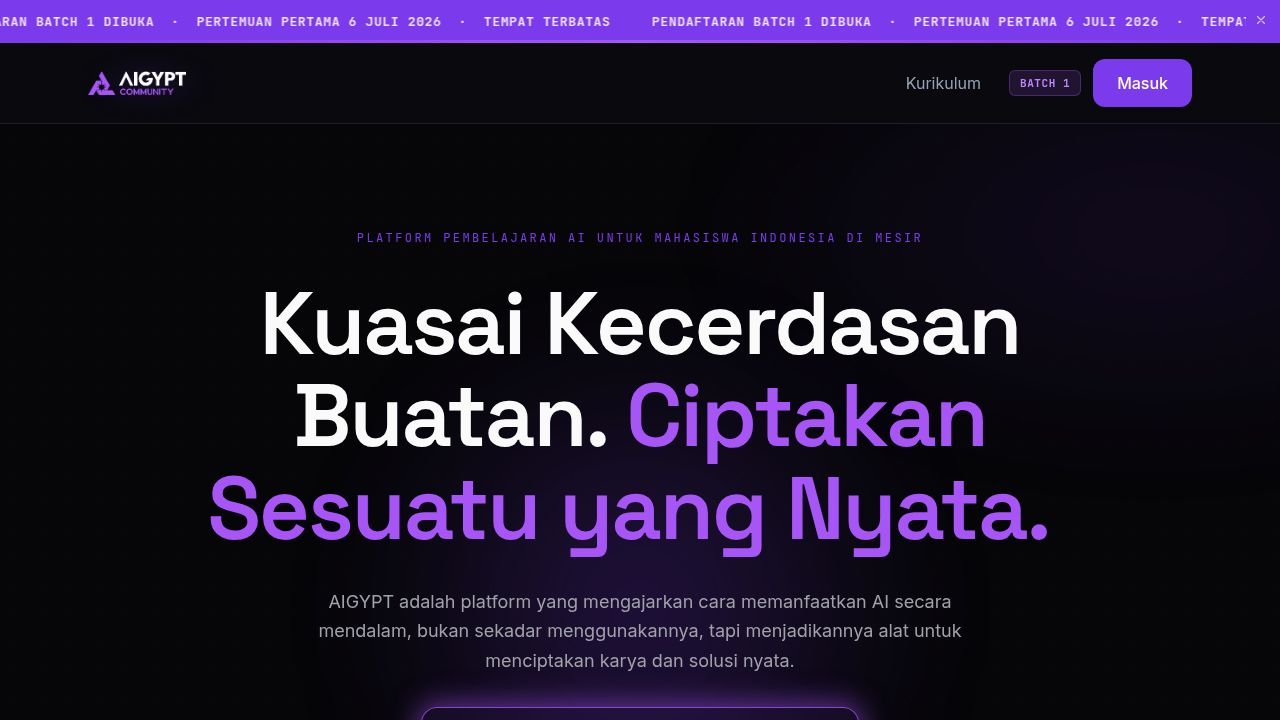
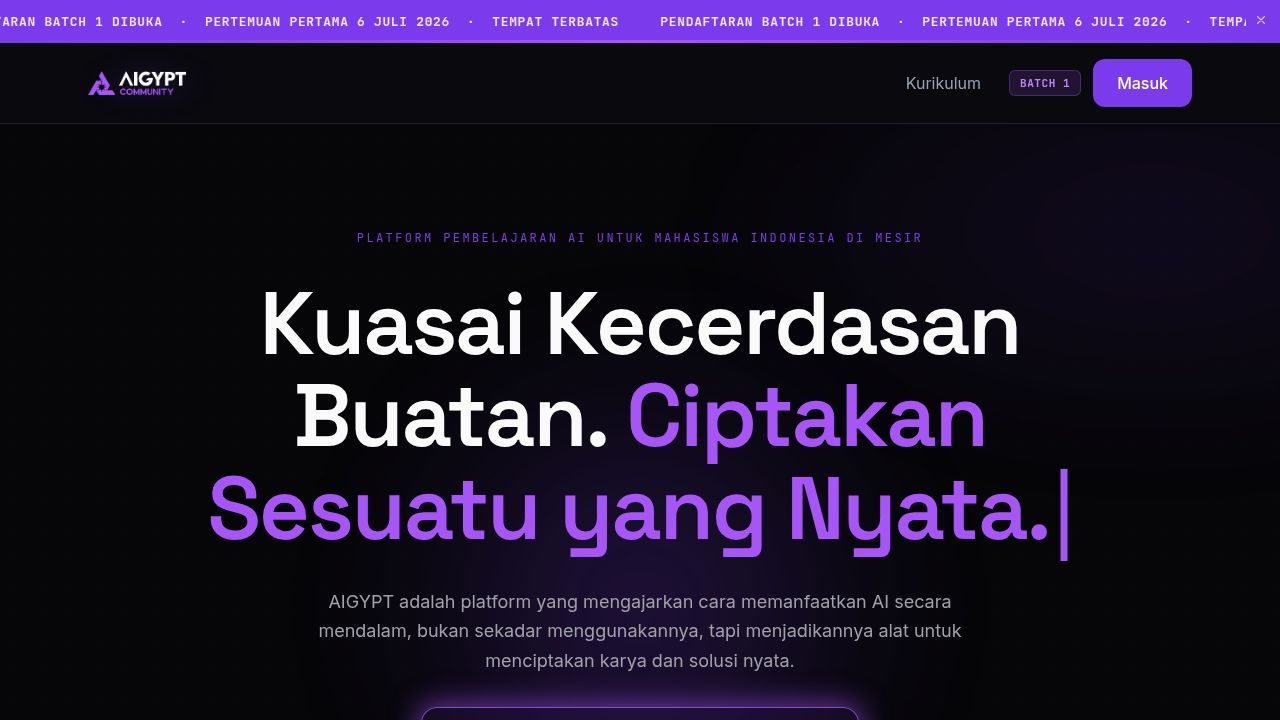
Update course content and descriptions for upcoming classes
Refactors `classesData.ts` to update titles, taglines, descriptions, and learning outcomes for four "coming soon" courses.

Replit-Commit-Author: Agent
Replit-Commit-Session-Id: 8038c7c8-4fa3-41d1-ba95-f854f5575b59
Replit-Commit-Checkpoint-Type: full_checkpoint
Replit-Commit-Event-Id: be11563e-5cd3-4d43-adb0-04438cbd7229
Replit-Commit-Screenshot-Url: https://storage.googleapis.com/screenshot-production-us-central1/8df82b44-aafc-41c3-98d5-f4d5fb4b5561/8038c7c8-4fa3-41d1-ba95-f854f5575b59/9lhY41s
Replit-Helium-Checkpoint-Created: true

diff --git a/artifacts/aigypt/src/lib/classesData.ts b/artifacts/aigypt/src/lib/classesData.ts
@@ -46,12 +46,12 @@ export const kelasList: KelasItem[] = [
   },
   {
     id: "arabic-mastery-ai",
-    title: "Bahasa Arab Akademik dengan AI",
-    tagline: "Taklukkan makalah dan kitab klasik.",
+    title: "Bahasa Arab & Turats dengan AI",
+    tagline: "Taklukkan kitab turats dan bahasa Arab akademik dengan kecerdasan buatan sebagai asisten belajarmu.",
     description:
-      "Kelas mendalam khusus akademik: menulis makalah Arab tingkat tinggi, memahami kitab klasik, dan riset ilmiah, semua dengan bantuan AI yang memahami bahasa Arab.",
+      "Inilah kelas yang paling dekat dengan keseharianmu sebagai mahasiswa Al-Azhar. Bukan tentang menggantikan talaqqi atau guru, tapi tentang punya asisten yang membantumu memahami matan yang rumit, membaca kitab gundul, dan menyusun tulisan akademik berbahasa Arab fusha dengan lebih percaya diri.",
     sesiCount: 5,
-    duration: "60 menit/sesi",
+    duration: "75 menit/sesi",
     level: "Menengah",
     status: "coming-soon",
     gradient:
@@ -61,18 +61,19 @@ export const kelasList: KelasItem[] = [
       "M12 6.042A8.967 8.967 0 006 3.75c-1.052 0-2.062.18-3 .512v14.25A8.987 8.987 0 016 18c2.305 0 4.408.867 6 2.292m0-14.25a8.966 8.966 0 016-2.292c1.052 0 2.062.18 3 .512v14.25A8.987 8.987 0 0018 18a8.967 8.967 0 00-6 2.292m0-14.25v14.25",
     personas: ["Akademisi"],
     whatYouLearn: [
-      "Menulis makalah Arab fusha tingkat akademik",
-      "Menerjemah dan menganalisis kitab klasik",
-      "Riset dan menemukan celah penelitian",
-      "Mempersiapkan ujian dan munaqasyah",
+      "Menerjemah kitab turats secara kontekstual, bukan sekadar kata per kata",
+      "Menganalisis struktur nahwu dan shorof dari teks Arab yang sulit",
+      "Memanfaatkan AI bersama Maktabah Shamela dan sumber turats digital lainnya",
+      "Menyusun makalah dan penelitian berbahasa Arab fusha yang rapi dan akademis",
+      "Memahami batasan: kapan mempercayai AI dan kapan kembali ke kitab dan guru",
     ],
   },
   {
     id: "cuan-masisir-ai",
-    title: "Bangun Penghidupan dengan AI",
-    tagline: "Ubah keterampilan jadi penghasilan.",
+    title: "Bangun Penghidupan Digital dengan AI",
+    tagline: "Ubah keterampilan AI-mu jadi sumber penghasilan nyata, langsung dari kamar kostmu di Kairo.",
     description:
-      "Kelas bisnis praktis: membangun usaha online dari Mesir, copywriting yang menjual, hingga melayani pelanggan dengan kecerdasan buatan.",
+      "Maisyah di perantauan tidak harus selalu soal kerja keras tanpa henti. Kelas ini fokus pada keterampilan yang benar-benar bisa kamu jual minggu depan, bukan teori bisnis yang mengawang. Dari menulis konten, mengelola media sosial bisnis orang, hingga membuat produk digital yang bisa dijual berkali-kali.",
     sesiCount: 5,
     duration: "60 menit/sesi",
     level: "Pemula",
@@ -84,18 +85,19 @@ export const kelasList: KelasItem[] = [
       "M2.25 18L9 11.25l4.306 4.307a11.95 11.95 0 015.814-5.519l2.74-1.22m0 0l-5.94-2.28m5.94 2.28l-2.28 5.941",
     personas: ["Pebisnis"],
     whatYouLearn: [
-      "Riset produk dan pasar dengan AI",
-      "Copywriting dan strategi konten penjualan",
-      "Otomasi layanan pelanggan",
-      "Membangun toko digital sederhana",
+      "Menawarkan jasa penulisan konten dan copywriting berbantuan AI ke klien nyata",
+      "Mengelola admin dan customer service bisnis online sebagai layanan berbayar",
+      "Membuat produk digital (template, panduan, e-book) yang dijual tanpa stok",
+      "Menjalankan jasa desain dan konten media sosial untuk UMKM dan brand kecil",
+      "Menemukan klien pertama dan menentukan harga yang masuk akal untuk pemula",
     ],
   },
   {
     id: "vibe-coding-mastery",
     title: "Vibe Coding: Dari Nol ke Aplikasi",
-    tagline: "Bangun software tanpa jadi programmer.",
+    tagline: "Bangun aplikasi nyata tanpa jadi programmer, cukup dengan mendeskripsikan idemu.",
     description:
-      "Kelas mendalam membangun aplikasi web, automasi, dan tools nyata hanya dengan mendeskripsikan apa yang kamu mau. Untuk yang ingin serius mencipta.",
+      "Inilah puncak dari perjalanan AIGYPT. Kamu tidak hanya memakai aplikasi buatan orang lain, tapi membangun milikmu sendiri. Dari ide yang ada di kepala, menjadi aplikasi web yang benar-benar bisa dipakai, bahkan dijual. Tidak perlu latar belakang IT, yang kamu butuhkan hanya masalah yang ingin kamu selesaikan.",
     sesiCount: 6,
     duration: "75 menit/sesi",
     level: "Menengah",
@@ -107,18 +109,19 @@ export const kelasList: KelasItem[] = [
       "M17.25 6.75L22.5 12l-5.25 5.25m-10.5 0L1.5 12l5.25-5.25m7.5-3l-4.5 16.5",
     personas: ["Kreator", "Pebisnis", "Pencari"],
     whatYouLearn: [
-      "Workflow vibe coding dari ide ke produk",
-      "Membangun web app dengan Lovable, Bolt, v0",
-      "Design system dengan DESIGN.md",
-      "Deploy dan iterasi produk nyata",
+      "Memahami vibe coding: membangun perangkat lunak lewat percakapan dengan AI",
+      "Membuat aplikasi web fungsional dari nol menggunakan Lovable, Bolt, dan v0",
+      "Membangun tools untuk organisasi, usaha, atau kebutuhan masisir sehari-hari",
+      "Merangkai alur kerja otomatis yang bekerja sendiri tanpa kamu sentuh",
+      "Mempublikasikan karyamu agar bisa diakses dan dipakai orang lain",
     ],
   },
   {
     id: "konten-dakwah-ai",
     title: "Konten & Dakwah Digital dengan AI",
-    tagline: "Sebarkan kebaikan dengan kecerdasan.",
+    tagline: "Sampaikan ilmu dan kebaikan ke lebih banyak orang, dengan kualitas dan tanggung jawab.",
     description:
-      "Kelas untuk kreator dan penggerak dakwah: memproduksi konten Islami yang berkualitas, konsisten, dan menjangkau luas dengan bantuan AI.",
+      "Sebagai penuntut ilmu, kamu punya bekal yang berharga untuk dibagikan. Kelas ini membantumu menyebarkan kebaikan secara digital dengan lebih luas dan konsisten, tanpa kehilangan kedalaman dan tanggung jawab keilmuan. AI di sini adalah alat bantu produksi, bukan pengganti ilmu dan adab.",
     sesiCount: 4,
     duration: "60 menit/sesi",
     level: "Semua Level",
@@ -130,10 +133,11 @@ export const kelasList: KelasItem[] = [
       "M10.34 15.84c-.688-.06-1.386-.09-2.09-.09H7.5a4.5 4.5 0 110-9h.75c.704 0 1.402-.03 2.09-.09m0 9.18c.253.962.584 1.892.985 2.783.247.55.06 1.21-.463 1.511l-.657.38c-.551.318-1.26.117-1.527-.461a20.845 20.845 0 01-1.44-4.282m3.102.069a18.03 18.03 0 01-.59-4.59c0-1.586.205-3.124.59-4.59m0 9.18a23.848 23.848 0 018.835 2.535M10.34 6.66a23.847 23.847 0 008.835-2.535m0 0A23.74 23.74 0 0018.795 3m.38 1.125a23.91 23.91 0 011.014 5.395m-1.014 8.855c-.118.38-.245.754-.38 1.125m.38-1.125a23.91 23.91 0 001.014-5.395m0-3.46c.495.413.811 1.035.811 1.73 0 .695-.316 1.317-.811 1.73m0-3.46a24.347 24.347 0 010 3.46",
     personas: ["Kreator", "Organisator"],
     whatYouLearn: [
-      "Ideasi konten dakwah yang relevan",
-      "Produksi naskah dan visual dengan AI",
-      "Strategi konsistensi dan distribusi",
-      "Menjaga adab dan akurasi dalam konten",
+      "Menyusun naskah kultum, ceramah singkat, dan konten edukasi yang terstruktur",
+      "Membuat konten dakwah untuk Instagram, TikTok, dan YouTube secara konsisten",
+      "Mendesain poster kajian dan materi visual islami yang menarik",
+      "Mengubah satu kajian menjadi banyak format konten untuk berbagai platform",
+      "Menjaga adab dan tanggung jawab: verifikasi sumber, hindari penyalahgunaan AI dalam ranah agama",
     ],
   },
 ];